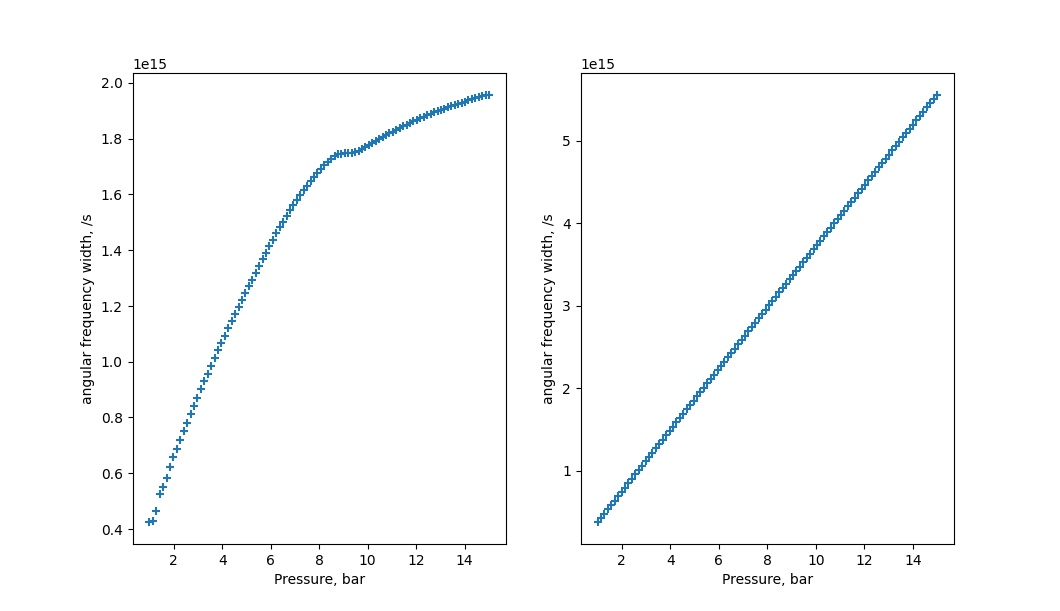
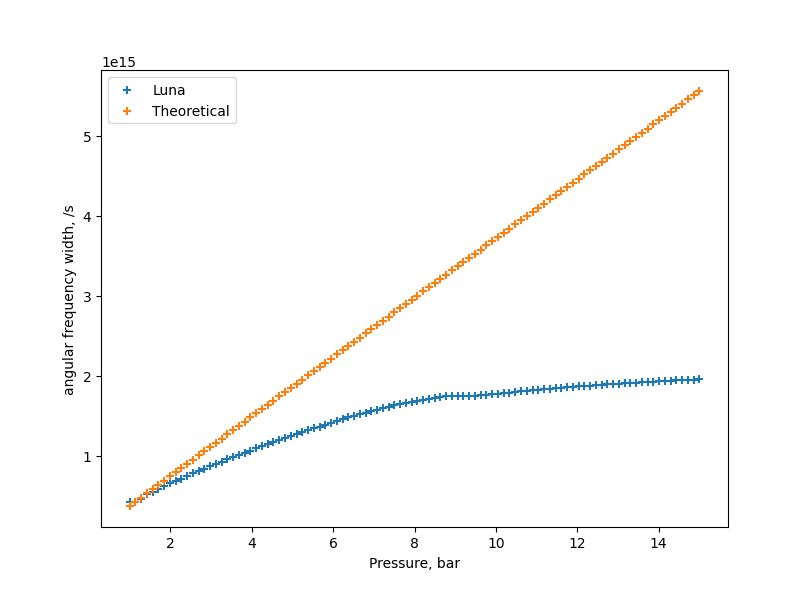
Updated theoretical vs simulation plots

diff --git a/HCF sim/Python/building datasets/parameters_vs_bandwidth/flength_vs_rms_width.py b/HCF sim/Python/building datasets/parameters_vs_bandwidth/flength_vs_rms_width.py
@@ -13,16 +13,16 @@ Main.using("Luna")
 from rms_width import *
 # Arguments
 radius = 125e-6 # HCF core radius
-flength = 1 # HCF length
+flengths = np.linspace(0.05,20,100) # HCF length
 gas = "Ne"
-pressures = np.linspace(1.,15.,100) # array of gas pressures in bar, corresponds to 66% of final pressure in atm
+pressure =  2.340607 # gas pressure in bar, corresponds to 66% of final pressure in atm
 λ0 = 800e-9 # central wavelength of the pump pulse
 τfwhm = 30e-15 # FWHM duration of the pump pulse
 energy=0.5e-3
 
 # Assign arguments to Main namespace
 Main.radius = radius
-Main.flength = flength
+Main.pressure = pressure
 
 Main.gas_str = gas
 Main.eval("gas = Symbol(gas_str)")
@@ -31,9 +31,9 @@ Main.λ0 = λ0
 Main.energy = energy
 widths=np.array([])
 
-for i in pressures:
+for i in flengths:
     print(i)
-    Main.pressure = i
+    Main.flength = i
     # Calculations
     # setting pressure to (0,pressure) means a gradient from zero up until given value
     Main.duv = Main.eval('duv = prop_capillary(radius, flength, gas, pressure; λ0, τfwhm, energy, trange=400e-15, λlims=(150e-9, 4e-6))')
@@ -59,13 +59,13 @@ plt.xlabel("Pressure, bar")
 plt.show()
 """
 
-plt.scatter(pressures,widths, marker="+", label='Luna')
+plt.scatter(flengths,widths, marker="+", label='Luna')
 
 theor_widths = []
-for i in range(len(pressures)):
-    theor_widths.append(theoretical_width(radius, flength, pressures[i], λ0, τfwhm, energy))
-plt.scatter(pressures,theor_widths, marker="+", label='Theoretical')
+for i in range(len(flengths)):
+    theor_widths.append(theoretical_width(radius, flengths[i], pressure, λ0, τfwhm, energy))
+plt.scatter(flengths,theor_widths, marker="+", label='Theoretical')
 plt.ylabel("angular frequency width, /s")
-plt.xlabel('Pressure, bar')
+plt.xlabel('Fibre Length, m')
 plt.legend()
 plt.show()

diff --git a/BO/synthesiser_simulation/chirp/pulse_with_GDD.py b/BO/synthesiser_simulation/chirp/pulse_with_GDD.py
@@ -40,4 +40,21 @@ def efield_freq_domain(t, amp, om0, dom, t0, gdd, cep):
     omega=np.fft.fftfreq(len(t),d=(t[1]-t[0]))
     return omega,np.real(E_omega)
 
+def E_field_freq(omega, t0=0.0, wavel=1000, fwhm=10.0, amp=1.0, CEP=0.0, GDD=0):
+    E0 = amp
+    E_transform_limited = E0 * np.exp(-2 * np.log(2) * (omega-omega0)**2/domega**2)
+    return E_transform_limited * np.exp(phi * 1J) 
 
+c = 3*(10**(8))
+omega0 = 2 * np. pi * c/wavel # rad/fs
+domega = 2 # for example, rad/fs
+omega = np.linspace(omega0-domega/2, omega0+domega/2, 1000)
+
+CEP  = np.pi/2 # for example, rad
+GD = 0 # GD relates to absolute arrival times, so not physically important
+GDD = 100 # for example, fs**2
+TOD = 0 # maybe later, fs**3
+
+def get_phi(omega, omega0, CEP, GDD, TOD):
+    return CEP + GD * (omega-omega0) + (1/2) * GDD * (omega-omega0)**2 + (1/6) * TOD * (omega-omega0)**3 
+phi = get_phi(omega, omega0, CEP, GDD, TOD)

diff --git a/HCF sim/Python/building datasets/parameters_vs_bandwidth/duration_vs_rms_width.py b/HCF sim/Python/building datasets/parameters_vs_bandwidth/duration_vs_rms_width.py
@@ -61,16 +61,13 @@ plt.ylabel("angular frequency width, /s")
 plt.xlabel("Pulse duration, fs")
 plt.show()
 """
-f, (ax1, ax2) = plt.subplots(1, 2)
-ax1.scatter(τfwhms/10**(-15),widths, marker="+")
-#plt.grid()
-ax1.set_ylabel("angular frequency width, /s")
-ax1.set_xlabel('Pulse duration, fs')
+plt.scatter(τfwhms/10**(-15),widths, marker="+", label='Luna')
 
 theor_widths = []
 for i in range(len(τfwhms)):
     theor_widths.append(theoretical_width(radius, flength, pressure, λ0, τfwhms[i], energy))
-ax2.scatter(τfwhms/10**(-15),theor_widths, marker="+")
-ax2.set_ylabel("angular frequency width, /s")
-ax2.set_xlabel('Pulse duration, fs')
+plt.scatter(τfwhms/10**(-15),theor_widths, marker="+", label='Theoretical')
+plt.ylabel("angular frequency width, /s")
+plt.xlabel('Pulse duration, fs')
+plt.legend()
 plt.show()

diff --git a/HCF sim/Python/building datasets/parameters_vs_bandwidth/radius_vs_rms_width.py b/HCF sim/Python/building datasets/parameters_vs_bandwidth/radius_vs_rms_width.py
@@ -60,16 +60,14 @@ plt.ylabel("angular frequency width, /s")
 plt.xlabel('Core radius, um')
 plt.show()
 """
-f, (ax1, ax2) = plt.subplots(1, 2)
-ax1.scatter(radius*10**6,widths, marker="+")
-#plt.grid()
-ax1.set_ylabel("angular frequency width, /s")
-ax1.set_xlabel('Core radius, um')
+
+plt.scatter(radius*10**6,widths, marker="+", label='Luna')
 
 theor_widths = []
 for i in range(len(radius)):
     theor_widths.append(theoretical_width(radius[i], flength, pressure, λ0, τfwhm, energy))
-ax2.scatter(radius*10**6,theor_widths, marker="+")
-ax2.set_ylabel("angular frequency width, /s")
-ax2.set_xlabel('Core radius, um')
+plt.scatter(radius*10**6,theor_widths, marker="+", label='Theoretical')
+plt.ylabel("angular frequency width, /s")
+plt.xlabel('Core radius, um')
+plt.legend()
 plt.show()

diff --git a/HCF sim/Python/building datasets/parameters_vs_bandwidth/energy_vs_rms_width.py b/HCF sim/Python/building datasets/parameters_vs_bandwidth/energy_vs_rms_width.py
@@ -61,17 +61,13 @@ plt.xlabel("Pulse energy, mJ")
 plt.show()
 """
 
-f, (ax1, ax2) = plt.subplots(1, 2)
-
-ax1.scatter(energies*10**(3),widths,marker="+")
-#plt.grid()
-ax1.set_ylabel("angular frequency width, /s")
-ax1.set_xlabel('Pulse energy, mJ')
+plt.scatter(energies*10**(3),widths,marker="+", label='Luna')
 
 theor_widths = []
 for i in range(len(energies)):
     theor_widths.append(theoretical_width(radius, flength, pressure, λ0, τfwhm, energies[i]))
-ax2.scatter(energies*10**(3),theor_widths, marker="+")
-ax2.set_ylabel("angular frequency width, /s")
-ax2.set_xlabel('Pulse energy, mJ')
+plt.scatter(energies*10**(3),theor_widths, marker="+", label='Theoretical')
+plt.ylabel("angular frequency width, /s")
+plt.xlabel('Pulse energy, mJ')
+plt.legend()
 plt.show()

diff --git a/HCF sim/Python/building datasets/parameters_vs_bandwidth/wavelength_vs_rms_width.py b/HCF sim/Python/building datasets/parameters_vs_bandwidth/wavelength_vs_rms_width.py
@@ -51,17 +51,14 @@ for i in λ0s:
     width=rms_width(ω,Iω)
     widths=np.append(widths,width)
 
-f, (ax1, ax2) = plt.subplots(1, 2)
 
-ax1.scatter(λ0s*10**9,widths, marker="+")
-#plt.grid()
-ax1.set_ylabel("angular frequency width, /s")
-ax1.set_xlabel('Wavelength, nm')
+plt.scatter(λ0s*10**9,widths, marker="+", label='Luna')
 
 theor_widths = []
 for i in range(len(λ0s)):
     theor_widths.append(theoretical_width(radius, flength, pressure, λ0s[i], τfwhm, energy))
-ax2.scatter(λ0s*10**9,theor_widths, marker="+")
-ax2.set_ylabel("angular frequency width, /s")
-ax2.set_xlabel('Wavelength, nm')
+plt.scatter(λ0s*10**9,theor_widths, marker="+", label='Theoretical')
+plt.ylabel("angular frequency width, /s")
+plt.xlabel('Wavelength, nm')
+plt.legend()
 plt.show()
